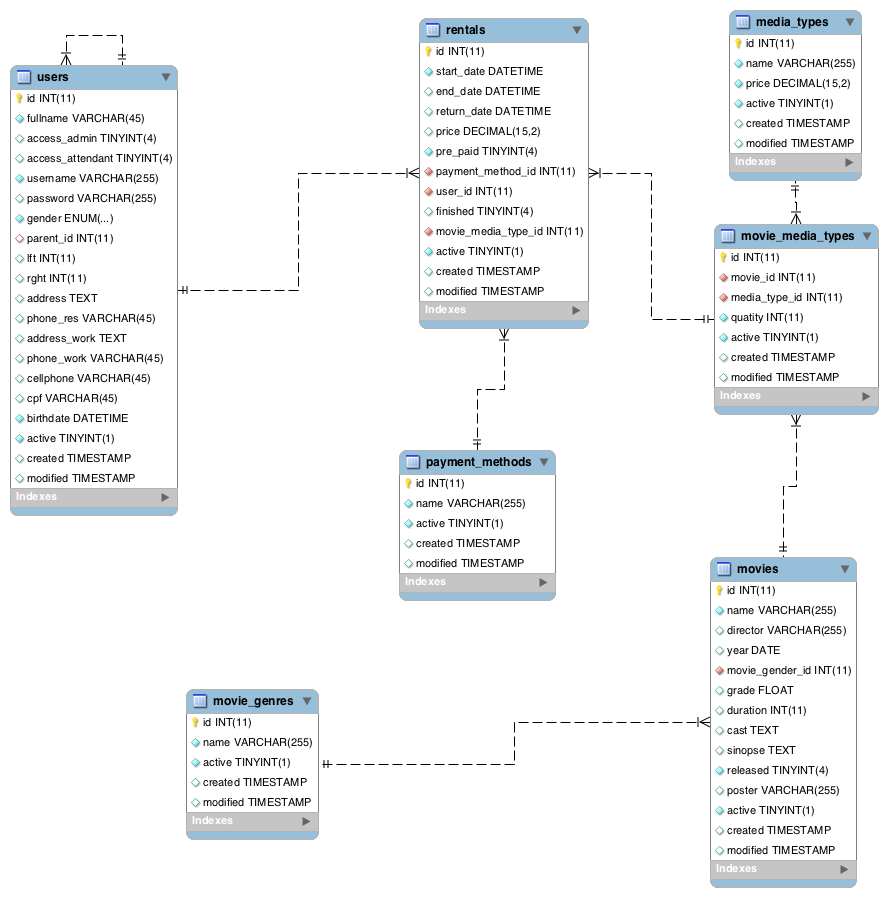
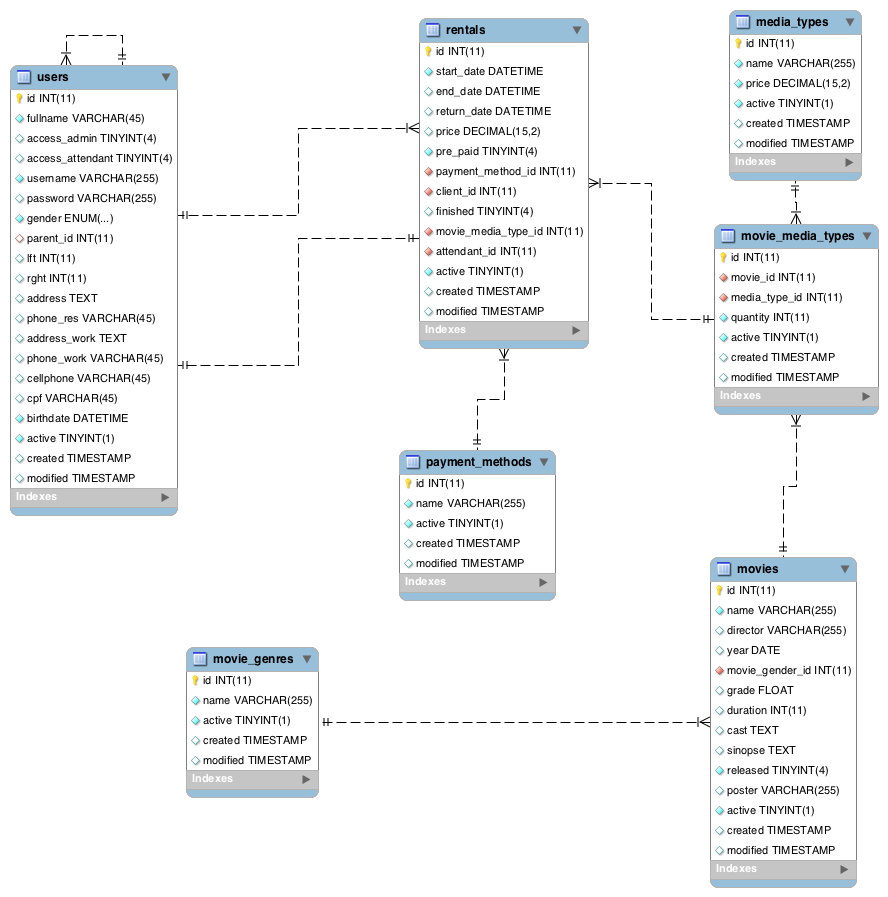
Mudança no banco - Pegando o atendente para locação

diff --git a/imperial/src/Model/Table/RentalsTable.php b/imperial/src/Model/Table/RentalsTable.php
@@ -48,7 +48,11 @@ class RentalsTable extends Table
             'joinType' => 'INNER'
         ]);
         $this->belongsTo('Users', [
-            'foreignKey' => 'user_id',
+            'foreignKey' => 'client_id',
+            'joinType' => 'INNER'
+        ]);
+        $this->belongsTo('Users', [
+            'foreignKey' => 'attendant_id',
             'joinType' => 'INNER'
         ]);
         $this->belongsTo('MovieMediaTypes', [
@@ -110,7 +114,8 @@ class RentalsTable extends Table
     public function buildRules(RulesChecker $rules)
     {
         $rules->add($rules->existsIn(['payment_method_id'], 'PaymentMethods'));
-        $rules->add($rules->existsIn(['user_id'], 'Users'));
+        $rules->add($rules->existsIn(['client_id'], 'Users'));
+        $rules->add($rules->existsIn(['attendant_id'], 'Users'));
         $rules->add($rules->existsIn(['movie_media_type_id'], 'MovieMediaTypes'));
 
         return $rules;

diff --git a/imperial/src/Controller/MediaTypesController.php b/imperial/src/Controller/MediaTypesController.php
@@ -96,11 +96,14 @@ class MediaTypesController extends AppController
     {
         $this->request->allowMethod(['post', 'delete']);
         $mediaType = $this->MediaTypes->get($id);
-        if ($this->MediaTypes->delete($mediaType)) {
-            $this->Flash->success(__('The media type has been deleted.'));
-        } else {
-            $this->Flash->error(__('The media type could not be deleted. Please, try again.'));
+
+        $mediaType['active'] = 0;
+        if ($this->MediaTypes->save($mediaType)) {
+            $this->Flash->success(__('The media type has been disabled.'));
+
+            return $this->redirect(['action' => 'index']);
         }
+        $this->Flash->error(__('The media type could not be disabled. Please, try again.'));
 
         return $this->redirect(['action' => 'index']);
     }

diff --git a/imperial/src/Model/Entity/Rental.php b/imperial/src/Model/Entity/Rental.php
@@ -13,7 +13,8 @@ use Cake\ORM\Entity;
  * @property float|null $price
  * @property int $pre_paid
  * @property int $payment_method_id
- * @property int $user_id
+ * @property int client_id
+ * @property int attendant_id
  * @property int|null $finished
  * @property int $movie_media_type_id
  * @property int $active
@@ -43,7 +44,8 @@ class Rental extends Entity
         'price' => true,
         'pre_paid' => true,
         'payment_method_id' => true,
-        'user_id' => true,
+        'client_id' => true,
+        'attendant_id' => true,
         'finished' => true,
         'movie_media_type_id' => true,
         'active' => true,
